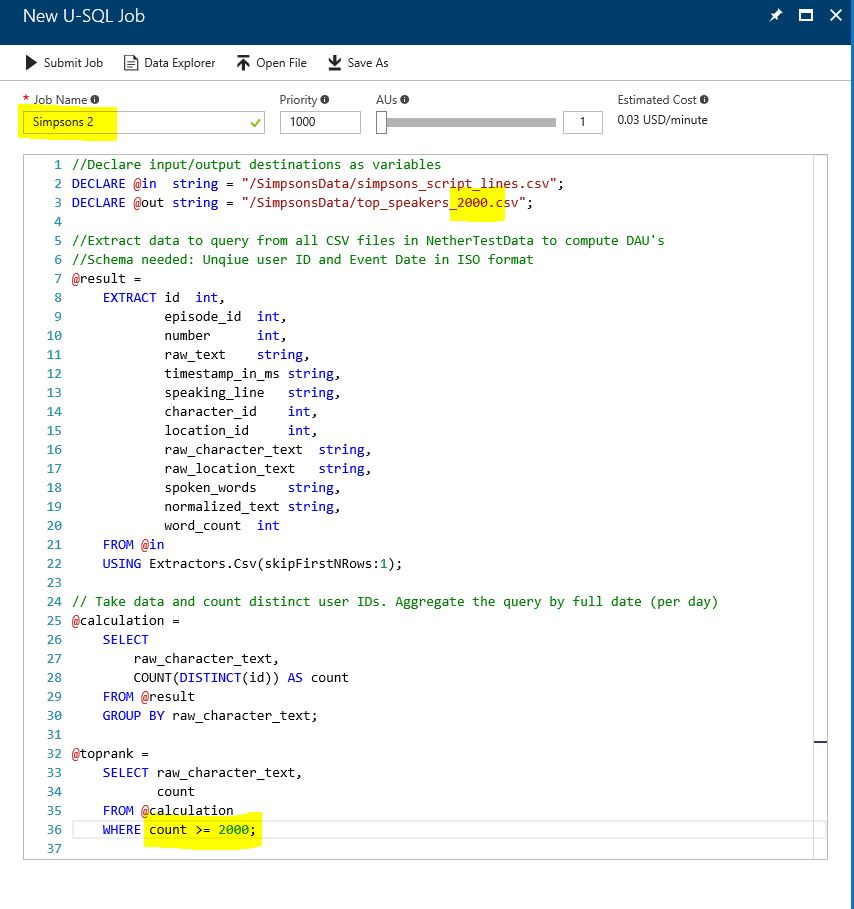
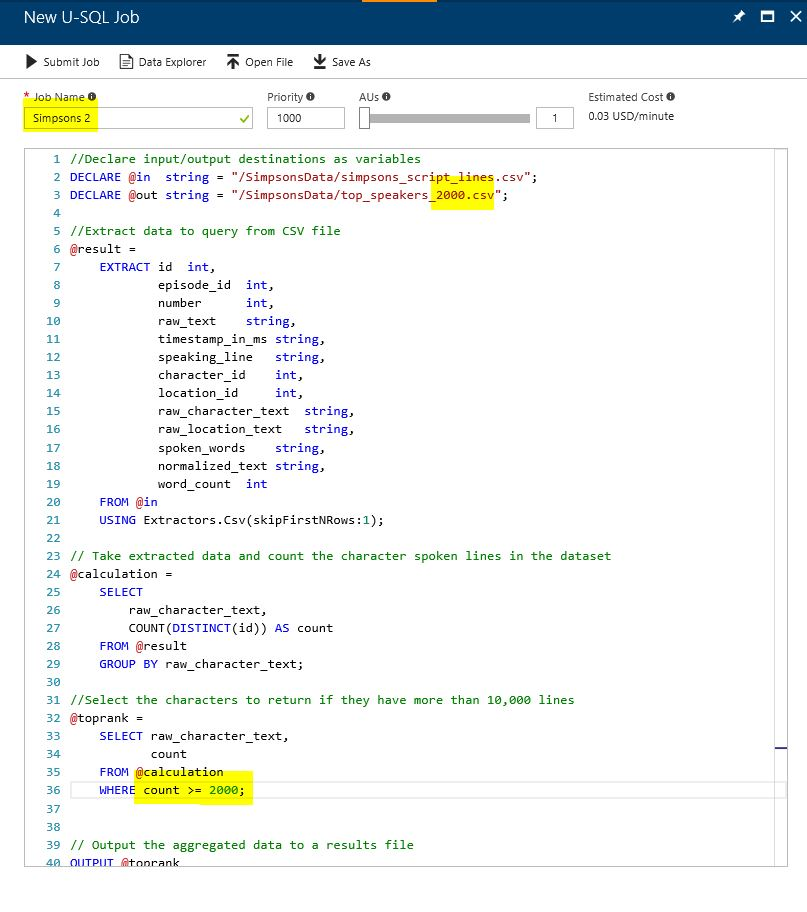
exercise 2 part 3

Changed region(s): [[0.0, 0.0, 1.0, 1.0], [0.031, 0.0, 0.1859, 0.0308], [0.4647, 0.0, 0.5266, 0.0308]]

diff --git a/README.md b/README.md
@@ -137,8 +137,7 @@ and copy the code below *(or get code from the adla_scripts folder: simpsons_que
 DECLARE @in  string = "/SimpsonsData/simpsons_script_lines.csv";
 DECLARE @out string = "/SimpsonsData/top_speakers_10000.csv";
  
-//Extract data to query from all CSV files in NetherTestData to compute DAU's
-//Schema needed: Unqiue user ID and Event Date in ISO format
+//Extract data to query from CSV file
 @result =
     EXTRACT id  int,
             episode_id  int,
@@ -156,7 +155,7 @@ DECLARE @out string = "/SimpsonsData/top_speakers_10000.csv";
     FROM @in
     USING Extractors.Csv(skipFirstNRows:1);
 
-// Take data and count distinct user IDs. Aggregate the query by full date (per day)
+// Take extracted data and count the character spoken lines in the dataset
 @calculation =
     SELECT
         raw_character_text,
@@ -164,6 +163,7 @@ DECLARE @out string = "/SimpsonsData/top_speakers_10000.csv";
     FROM @result
     GROUP BY raw_character_text;
 
+//Select the characters to return if they have more than 10,000 lines
 @toprank =
     SELECT raw_character_text,
            count
@@ -171,7 +171,7 @@ DECLARE @out string = "/SimpsonsData/top_speakers_10000.csv";
     WHERE count >= 10000;
     
 
-// Output the aggregated DAU results to output file specified above
+// Output the aggregated data to a results file
 OUTPUT @toprank
     TO @out
     USING Outputters.Csv();
@@ -194,6 +194,75 @@ Make edits to the new query so that:
 ![ADLA Portal](images/editscript.JPG)
 
 and submit the job. Once complete explore the output results file to see which characters speak more than 2000 lines in the dataset - **are they who you expect?**
+
+### Exercise 3: Cognitive Extensions
+
+Now we will look at creating a query which uses the Text Analytics Cognitive Extension available in Azure Data Lake Analytics. For more information on [Cognitive Extensions see the documentation](https://docs.microsoft.com/en-us/azure/data-lake-analytics/data-lake-analytics-u-sql-cognitive)
+
+First close all the blades you have open until you are at the Azure Data Lake Analytics service main page.
+
+Select **'New Job'**
+
+Rename the job **'Text Analytics'**
+
+and add/review the code below:
+
+```
+REFERENCE ASSEMBLY [TextCommon];
+REFERENCE ASSEMBLY [TextSentiment];
+REFERENCE ASSEMBLY [TextKeyPhrase];
+
+//Declare input/output destinations as variables
+DECLARE @in  string = "/SimpsonsData/simpsons_script_lines.csv";
+DECLARE @out string = "/SimpsonsData/simpsons_text_analysis.csv";
+
+//Extract data to query from CSV file
+@result =
+    EXTRACT id  int,
+            episode_id  int,
+            number      int,
+            raw_text    string,
+            timestamp_in_ms string,
+            speaking_line   string,
+            character_id    int,
+            location_id     int,
+            raw_character_text  string,
+            raw_location_text   string,
+            spoken_words    string,
+            Text string,
+            word_count  int
+    FROM @in
+    USING Extractors.Csv(skipFirstNRows:1);
+
+// Apply the Cognition.Text.SentimentAnalyzer function to the Text Column in the dataset
+@sentiment =
+    PROCESS @result
+
+    PRODUCE id,
+            episode_id,
+            raw_character_text,
+            raw_location_text,
+            spoken_words,
+            Text,
+            Sentiment string,
+            Conf double
+    READONLY id,
+            episode_id,
+            raw_character_text,
+            raw_location_text,
+            spoken_words,
+            Text
+    USING new Cognition.Text.SentimentAnalyzer(true);
+
+// Output the results to a csv file
+OUTPUT @sentiment
+    TO @out
+    USING Outputters.Csv();
+```
+and select **'Submit Job'**
+
+This query will take slightly longer to run than the previous queries
+![ADLA Portal](images/textanalytics.JPG)
 
 
 
